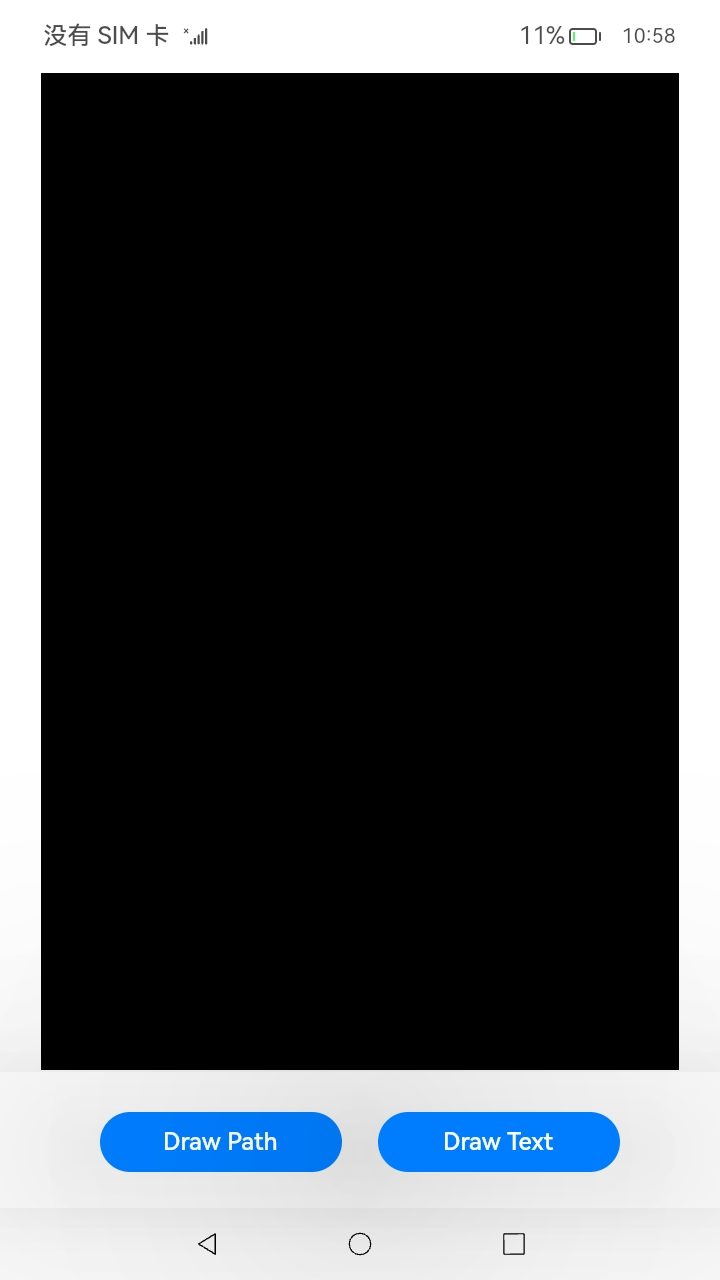
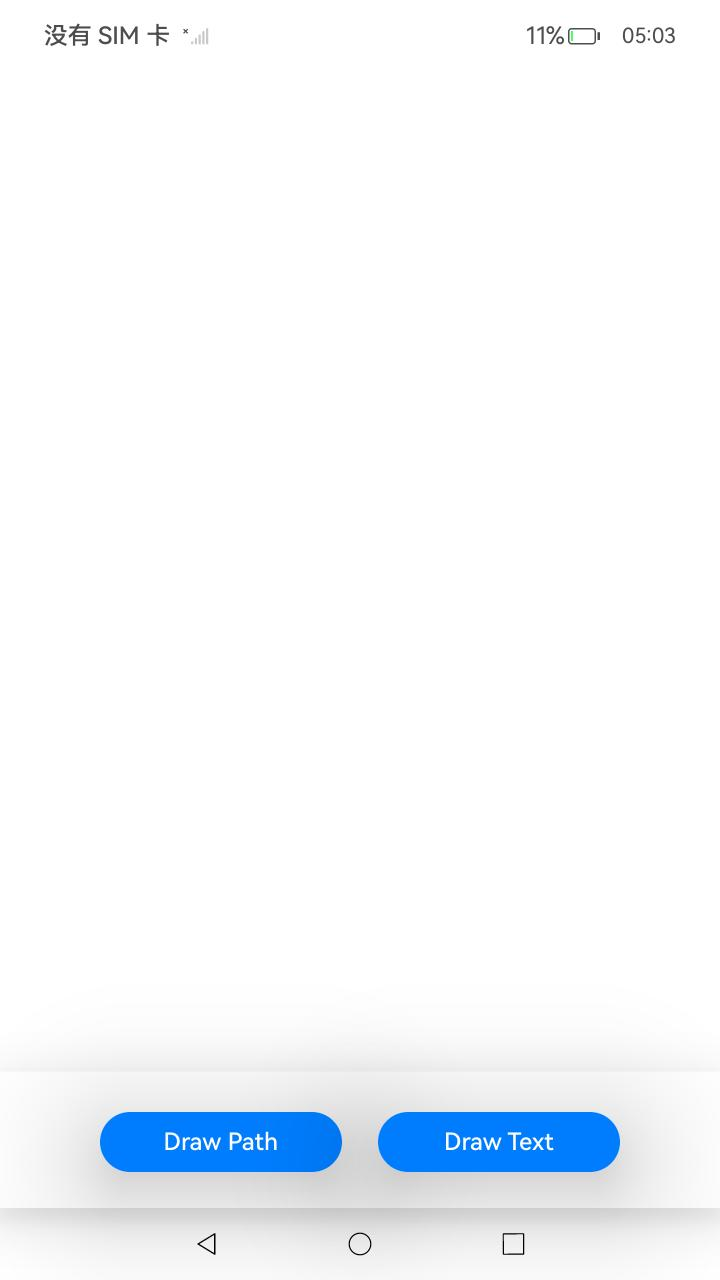
fix drawing xcomponent bug Signed-off-by: l00844999 <lizhan12@huawei.com>

diff --git a/code/BasicFeature/Native/NdkDrawing/entry/src/main/cpp/samples/sample_bitmap.cpp b/code/BasicFeature/Native/NdkDrawing/entry/src/main/cpp/samples/sample_bitmap.cpp
@@ -18,6 +18,7 @@
 #include <native_drawing/drawing_text_typography.h>
 #include "common/log_common.h"
 #include "sample_bitmap.h"
+#include "plugin/plugin_manager.h"
 
 static void OnSurfaceCreatedCB(OH_NativeXComponent *component, void *window)
 {
@@ -380,6 +381,7 @@ void SampleBitMap::Destroy()
 
 void SampleBitMap::Release(std::string &id)
 {
+    PluginManager::GetInstance()->ReleaseRender(id);
     SampleBitMap *render = SampleBitMap::GetInstance(id);
     if (render != nullptr) {
         delete render;

diff --git a/code/BasicFeature/Native/NdkDrawing/entry/src/main/cpp/plugin/plugin_manager.cpp b/code/BasicFeature/Native/NdkDrawing/entry/src/main/cpp/plugin/plugin_manager.cpp
@@ -116,3 +116,12 @@ SampleBitMap *PluginManager::GetRender(std::string &id)
     }
     return pluginRenderMap_[id];
 }
+
+void PluginManager::ReleaseRender(std::string &id)
+{
+    auto map = pluginRenderMap_.find(id);
+    if (map == pluginRenderMap_.end()) {
+        return;
+    }
+    pluginRenderMap_.erase(map);
+}

diff --git a/code/BasicFeature/Native/NdkDrawing/entry/src/main/cpp/plugin/plugin_manager.h b/code/BasicFeature/Native/NdkDrawing/entry/src/main/cpp/plugin/plugin_manager.h
@@ -30,6 +30,7 @@ public:
 
     void SetNativeXComponent(std::string &id, OH_NativeXComponent *nativeXComponent);
     SampleBitMap *GetRender(std::string &id);
+    void ReleaseRender(std::string &id);
     void Export(napi_env env, napi_value exports);
 private:
 
